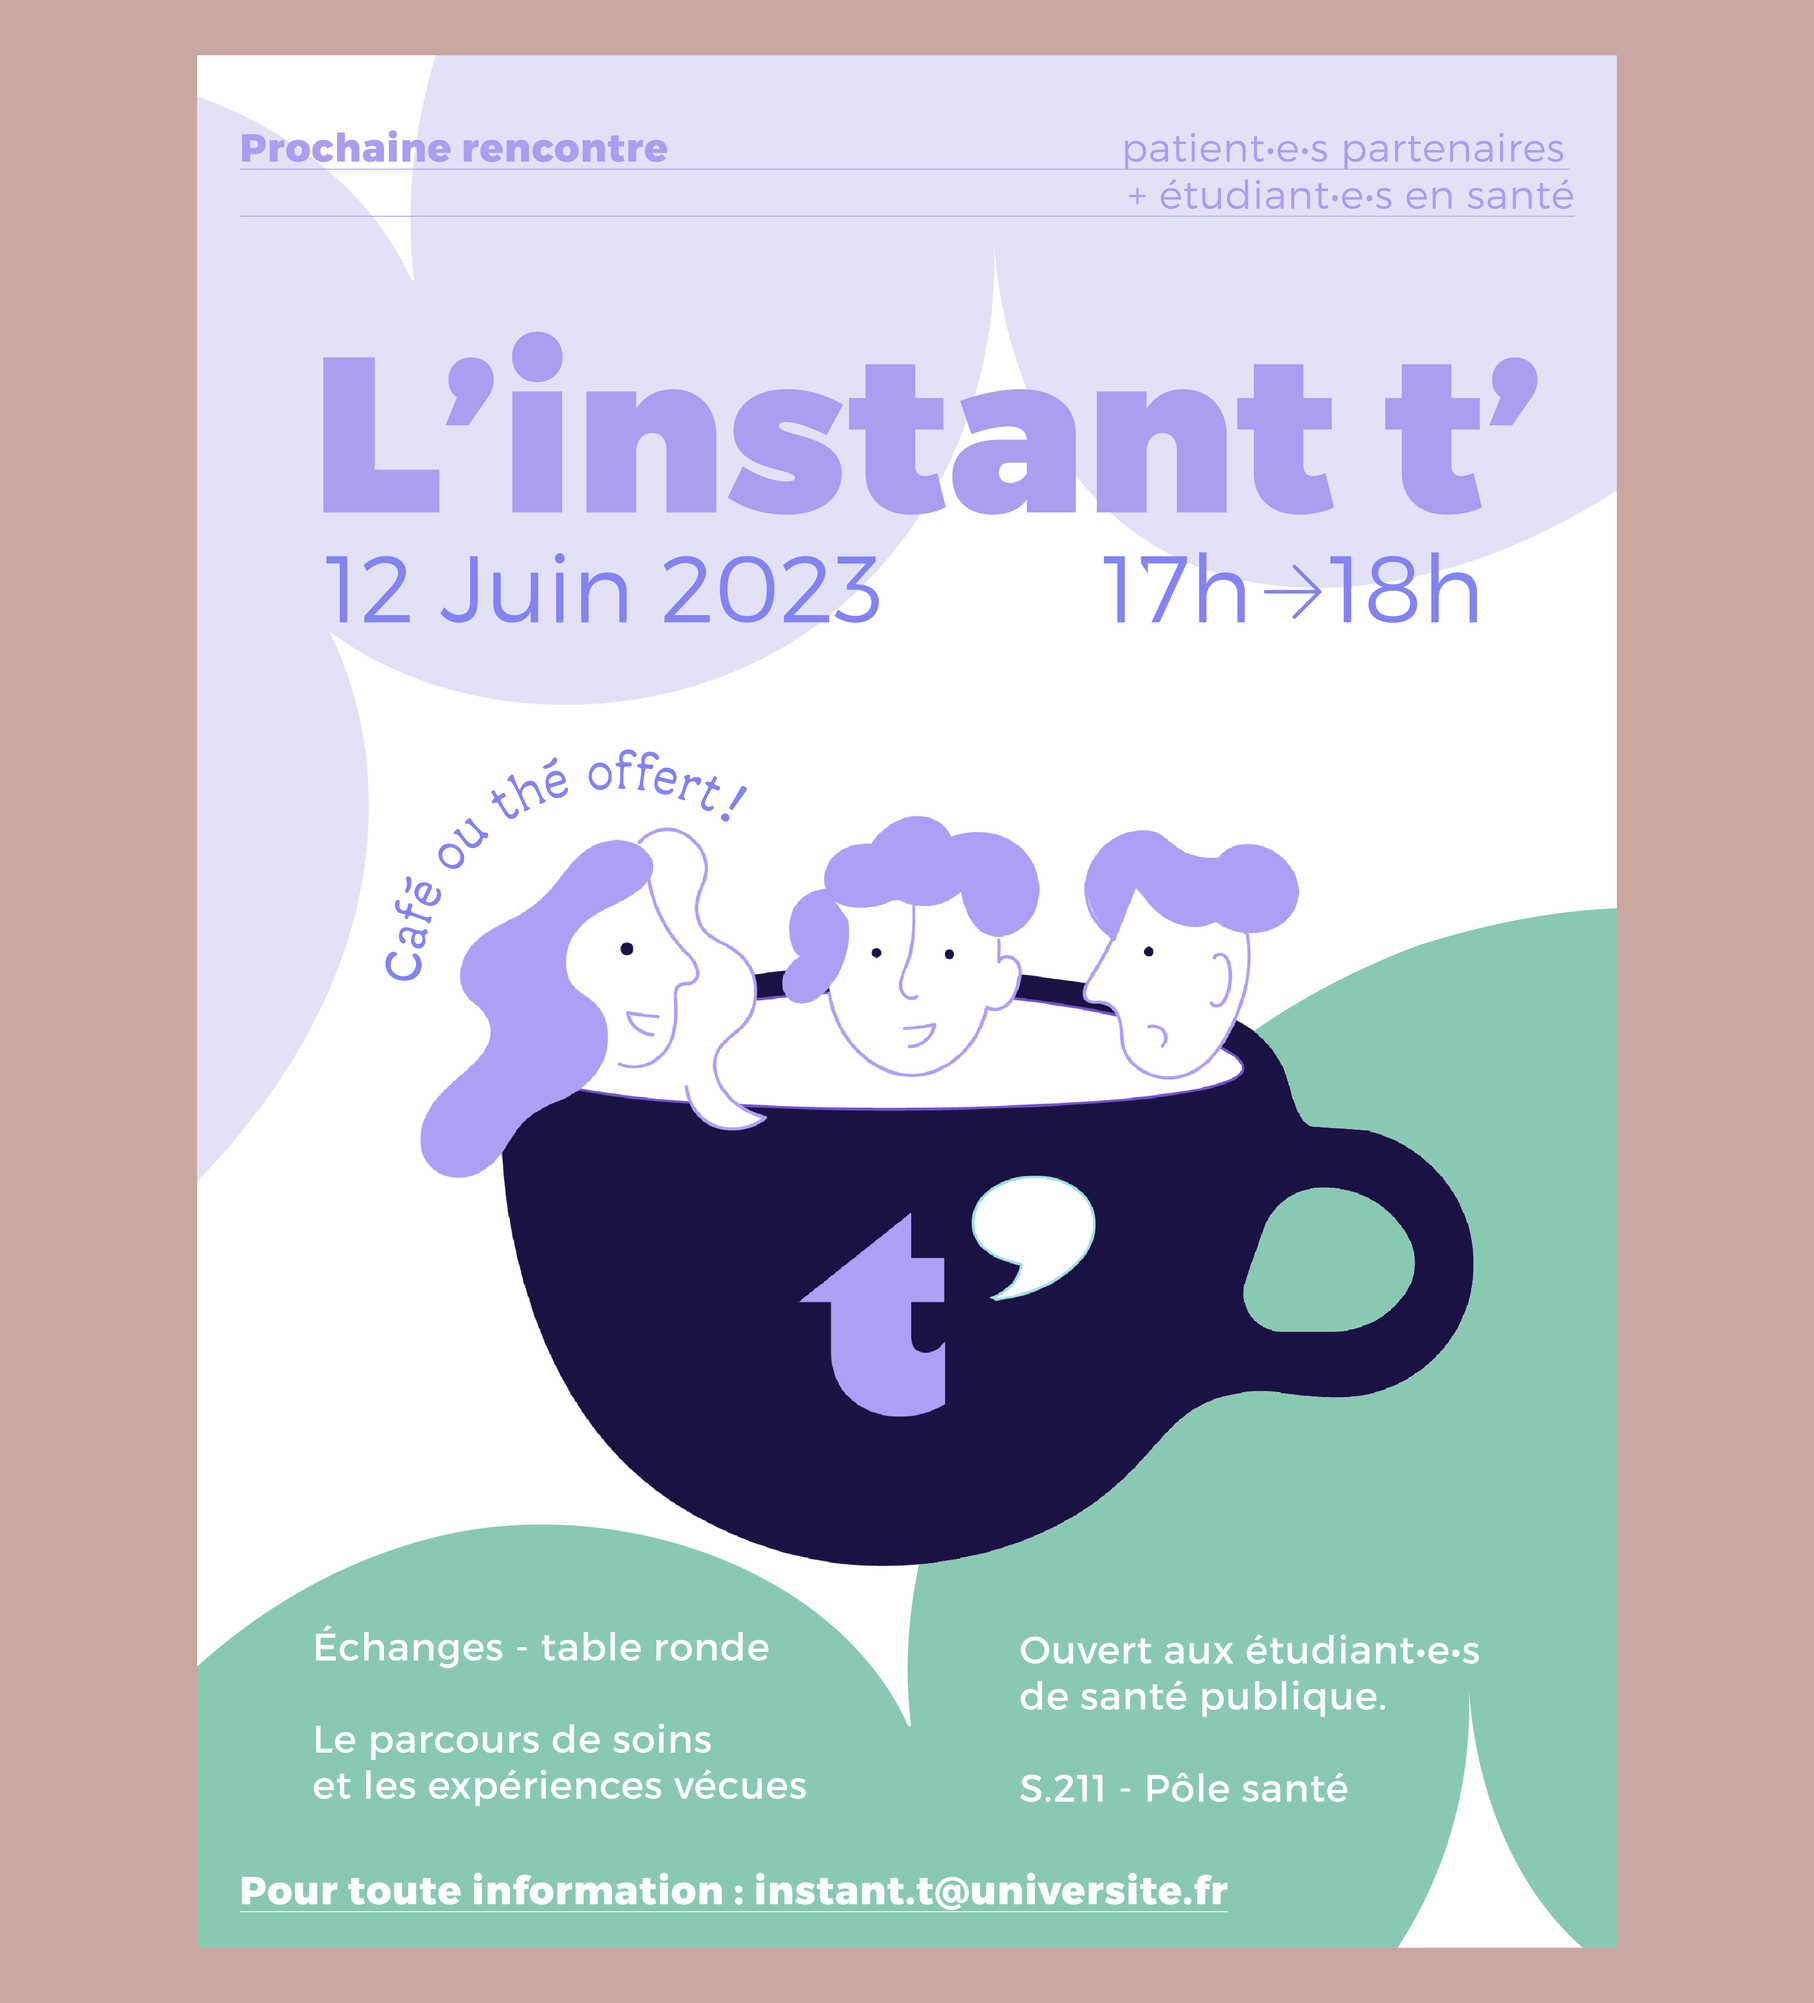
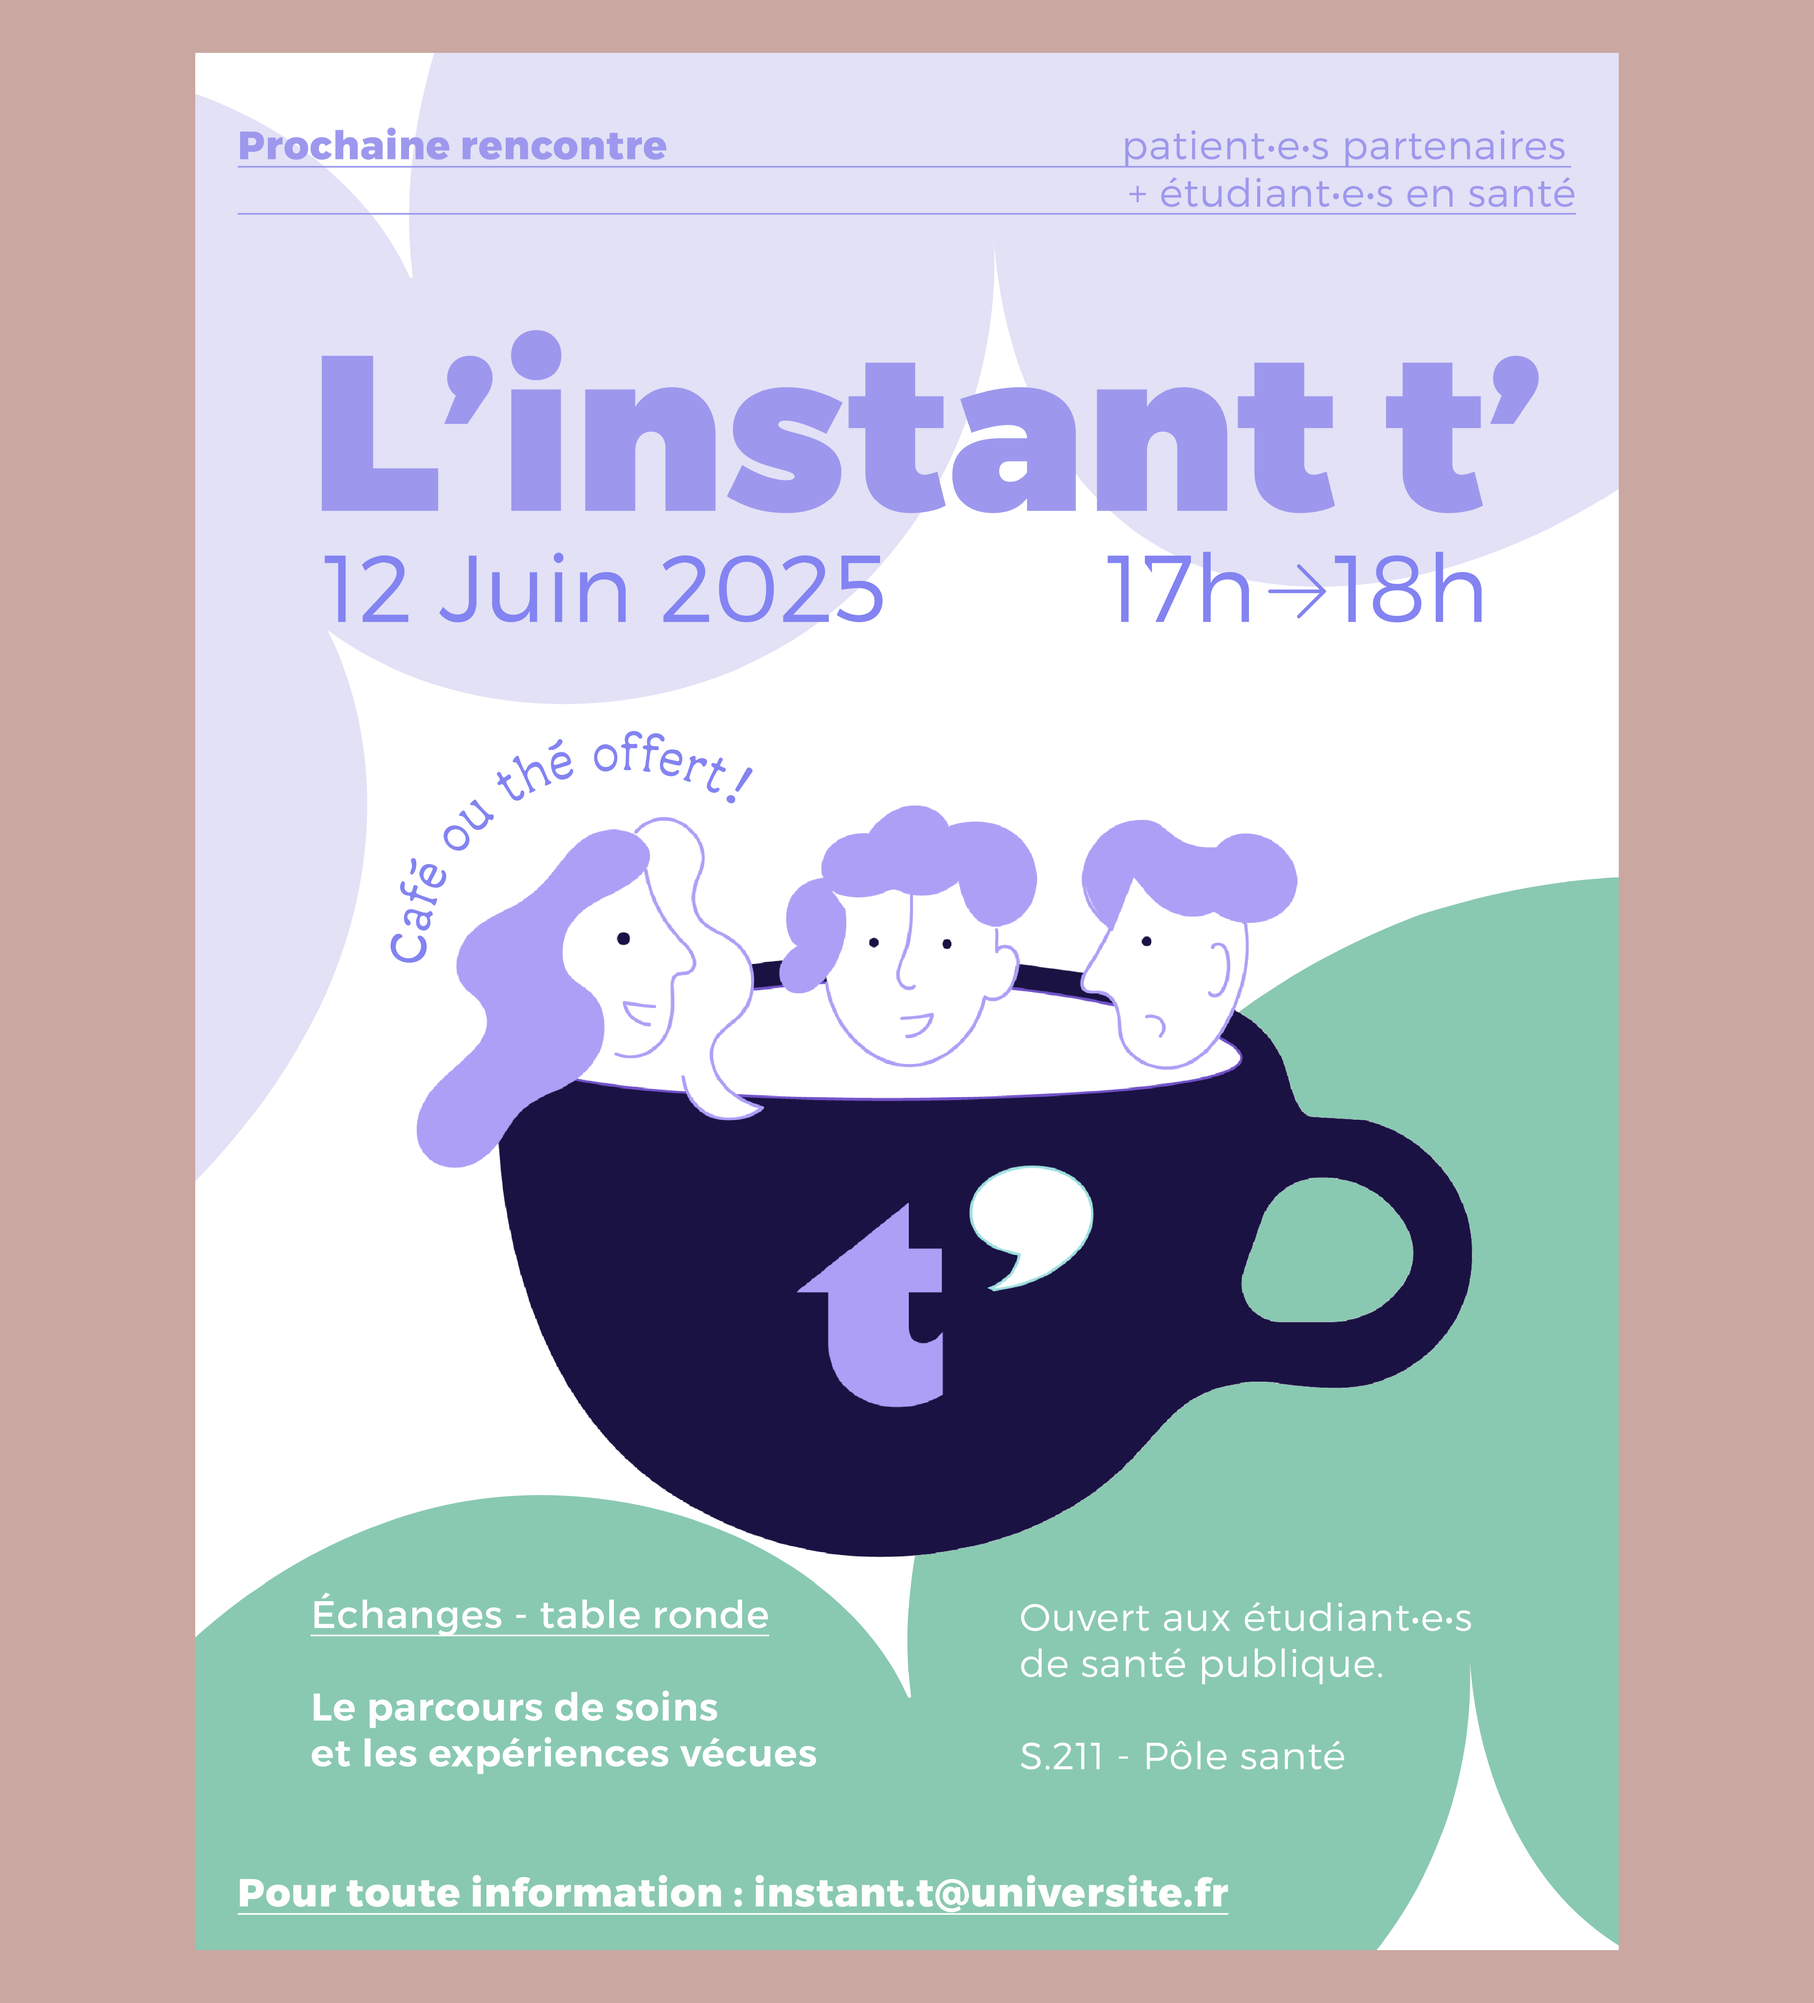
update instant t

diff --git a/index.html b/index.html
@@ -102,38 +102,6 @@ avec une attention particulière portée sur le sens et l’image.
 <p class=project-type>Édition</p>
 </div>
 </div>
-<div class=project-item data-title="DNSEP ESADHaR" data-meta="Affiche · 2024" data-description="Réalisée en collaboration avec <strong>Antoine Liberman</strong> · format 40×60 cm · impression sérigraphie" data-images=Images/PJ/AFF5.jpg,Images/PJ/AFF3.jpg,Images/PJ/AFF4.jpg,Images/PJ/AFF2.jpg>
-<div class=project-img>
-<img src=Images/ACC/AFFA1.jpg alt="Projet 6">
-<div class=project-overlay></div>
-</div>
-<div class=project-text>
-<p class=project-title>DNSEP ESADHaR</p>
-<p class=project-type>Affiche</p>
-</div>
-</div>
-<div class=project-item data-title="Guide book" data-meta="Édition · 2023" data-description="Édition consacrée aux signes graphiques de la bande dessinée&nbsp;: phylactères, onomatopées et typographies, selon différents auteur·ice·s. 
-         Une exploration d’une partie de l’histoire de la BD." data-images=Images/PJ/GBA1.jpg,Images/PJ/GBA.jpg,Images/PJ/GBB.jpg,Images/PJ/GBC.jpg>
-<div class=project-img>
-<img src=Images/ACC/GBA1.jpg alt="Projet 6">
-<div class=project-overlay></div>
-</div>
-<div class=project-text>
-<p class=project-title>Guide book</p>
-<p class=project-type>Édition</p>
-</div>
-</div>
-<div class=project-item data-title=Frénésies data-meta="Édition & Illustration · 2023" data-description="Récit de bande dessinée quasi muet où quelques bruits persistent. 
-         Traduction des ambiances et des émotions par le trait, dans un espace paisible qui se transforme en lieu de fête, de danse et de liberté." data-images=Images/PJ/FRE1.jpg,Images/PJ/FRE2.jpg,Images/PJ/FRE3.jpg,Images/PJ/FRE4.jpg,Images/PJ/FRE5.jpg,Images/PJ/FRE6.jpg>
-<div class=project-img>
-<img src=Images/ACC/FRA1.jpg alt="Projet 6">
-<div class=project-overlay></div>
-</div>
-<div class=project-text>
-<p class=project-title>Frénésies</p>
-<p class=project-type>Édition & illustration </p>
-</div>
-</div>
 <div class=project-item data-title="MS · designer graphique" data-meta="Logo & Carte de visite · 2026" data-description="Création de l’identité visuelle et de la carte de visite du studio, reflet de mon univers graphique et de l’éventail de mes services." data-images=Images/PJ/CAVZ.jpg,Images/PJ/CAV1B.jpg,Images/PJ/CAVTEST.jpg,Images/PJ/CAV.jpg,Images/PJ/CAVE.jpg>
 <div class=project-img>
 <img src=Images/PJ/CAVZ.jpg alt="Projet 6">
@@ -142,6 +110,17 @@ avec une attention particulière portée sur le sens et l’image.
 <div class=project-text>
 <p class=project-title>MS · designer graphique</p>
 <p class=project-type>Logo & Carte de visite</p>
+</div>
+</div>
+<div class=project-item data-title="L'instant t'" data-meta="Logo & Affiche · 2025" data-description="Création d’une identité visuelle et d’une affiche pour L’instant T, un événement favorisant les échanges entre patients partenaires et étudiants en santé autour du parcours de soins.
+Le projet propose une approche graphique chaleureuse inspirée des moments de discussion informels autour d’un café." data-images=Images/PJ/INST-04.png,Images/PJ/INST-02.png,Images/PJ/INST-05.png,Images/PJ/INST-03.png,Images/PJ/INST-12.png,Images/PJ/INST-11.png,Images/PJ/INST-10.png>
+<div class=project-img>
+<img src=Images/PJ/INST-06.png alt="Projet 6">
+<div class=project-overlay></div>
+</div>
+<div class=project-text>
+<p class=project-title>L'instant t'</p>
+<p class=project-type>Logo & Affiche</p>
 </div>
 </div>
 <div class=project-item data-title=Bel-o-kan data-meta="Édition · 2023" data-description="Création autour de la cité fourmilière de Bel-o-kan, inspirée du roman <strong>Les Fourmis</strong> de Bernard Werber. 
@@ -154,6 +133,17 @@ avec une attention particulière portée sur le sens et l’image.
 <div class=project-text>
 <p class=project-title>Bel-o-kan</p>
 <p class=project-type>Identité visuelle & édition</p>
+</div>
+</div>
+<div class=project-item data-title=Frénésies data-meta="Édition & Illustration · 2023" data-description="Récit de bande dessinée quasi muet où quelques bruits persistent. 
+         Traduction des ambiances et des émotions par le trait, dans un espace paisible qui se transforme en lieu de fête, de danse et de liberté." data-images=Images/PJ/FRE1.jpg,Images/PJ/FRE2.jpg,Images/PJ/FRE3.jpg,Images/PJ/FRE4.jpg,Images/PJ/FRE5.jpg,Images/PJ/FRE6.jpg>
+<div class=project-img>
+<img src=Images/ACC/FRA1.jpg alt="Projet 6">
+<div class=project-overlay></div>
+</div>
+<div class=project-text>
+<p class=project-title>Frénésies</p>
+<p class=project-type>Édition & illustration </p>
 </div>
 </div>
 <div class=project-item data-title="Éric Schrijver" data-meta="Affiche · 2023" data-description="Affiche pour la conférence d'<strong>Eric Schrijver</strong> à l'ESADHaR, Le Havre · 40x60cm " data-images=Images/PJ/AFFESY.jpg,Images/PJ/AFFESW.jpg>
@@ -177,25 +167,24 @@ avec une attention particulière portée sur le sens et l’image.
 <p class=project-type>Édition</p>
 </div>
 </div>
-<div class=project-item data-title="L'instant t'" data-meta="Identité visuelle · 2025" data-description="Création d’une identité visuelle et d’une affiche pour L’instant T, un événement favorisant les échanges entre patients partenaires et étudiants en santé autour du parcours de soins.
-Le projet propose une approche graphique chaleureuse inspirée des moments de discussion informels autour d’un café." data-images=Images/PJ/INST-04.png,Images/PJ/INST-02.png,Images/PJ/INST-05.png,Images/PJ/INST-03.png,Images/PJ/INST-12.png,Images/PJ/INST-11.png,Images/PJ/INST-10.png>
+<div class=project-item data-title="DNSEP ESADHaR" data-meta="Affiche · 2024" data-description="Réalisée en collaboration avec <strong>Antoine Liberman</strong> · format 40×60 cm · impression sérigraphie" data-images=Images/PJ/AFF5.jpg,Images/PJ/AFF3.jpg,Images/PJ/AFF4.jpg,Images/PJ/AFF2.jpg>
 <div class=project-img>
-<img src=Images/PJ/INST-06.png alt="Projet 6">
+<img src=Images/ACC/AFFA1.jpg alt="Projet 6">
 <div class=project-overlay></div>
 </div>
 <div class=project-text>
-<p class=project-title>L'instant t'</p>
-<p class=project-type>Identité visuelle & Affiche</p>
+<p class=project-title>DNSEP ESADHaR</p>
+<p class=project-type>Affiche</p>
 </div>
 </div>
-<div class=project-item data-title=Mémé data-meta="Édition · 2026" data-description="Propositions de couvertures (projet en cours) et mise en page pour <strong>Mémé</strong>, 
-         un court récit intime sur le deuil. L’autrice <strong>Émilie Vernhet</strong> utilise le dessin et le coloriage pour exprimer son vécu face à la perte de sa grand-mère." data-images=Images/PJ/EMA.jpg,Images/PJ/EM1.jpg,Images/PJ/EM2.jpg,Images/PJ/EM3.jpg>
+<div class=project-item data-title="Guide book" data-meta="Édition · 2023" data-description="Édition consacrée aux signes graphiques de la bande dessinée&nbsp;: phylactères, onomatopées et typographies, selon différents auteur·ice·s. 
+         Une exploration d’une partie de l’histoire de la BD." data-images=Images/PJ/GBA1.jpg,Images/PJ/GBA.jpg,Images/PJ/GBB.jpg,Images/PJ/GBC.jpg>
 <div class=project-img>
-<img src=Images/PJ/EM.jpg alt="Projet 6">
+<img src=Images/ACC/GBA1.jpg alt="Projet 6">
 <div class=project-overlay></div>
 </div>
 <div class=project-text>
-<p class=project-title>Mémé</p>
+<p class=project-title>Guide book</p>
 <p class=project-type>Édition</p>
 </div>
 </div>
@@ -207,6 +196,17 @@ Le projet propose une approche graphique chaleureuse inspirée des moments de di
 </div>
 <div class=project-text>
 <p class=project-title>Maison Vision</p>
+<p class=project-type>Édition</p>
+</div>
+</div>
+<div class=project-item data-title=Mémé data-meta="Édition · 2026" data-description="Propositions de couvertures (projet en cours) et mise en page pour <strong>Mémé</strong>, 
+         un court récit intime sur le deuil. L’autrice <strong>Émilie Vernhet</strong> utilise le dessin et le coloriage pour exprimer son vécu face à la perte de sa grand-mère." data-images=Images/PJ/EMA.jpg,Images/PJ/EM1.jpg,Images/PJ/EM2.jpg,Images/PJ/EM3.jpg>
+<div class=project-img>
+<img src=Images/PJ/EM.jpg alt="Projet 6">
+<div class=project-overlay></div>
+</div>
+<div class=project-text>
+<p class=project-title>Mémé</p>
 <p class=project-type>Édition</p>
 </div>
 </div>
